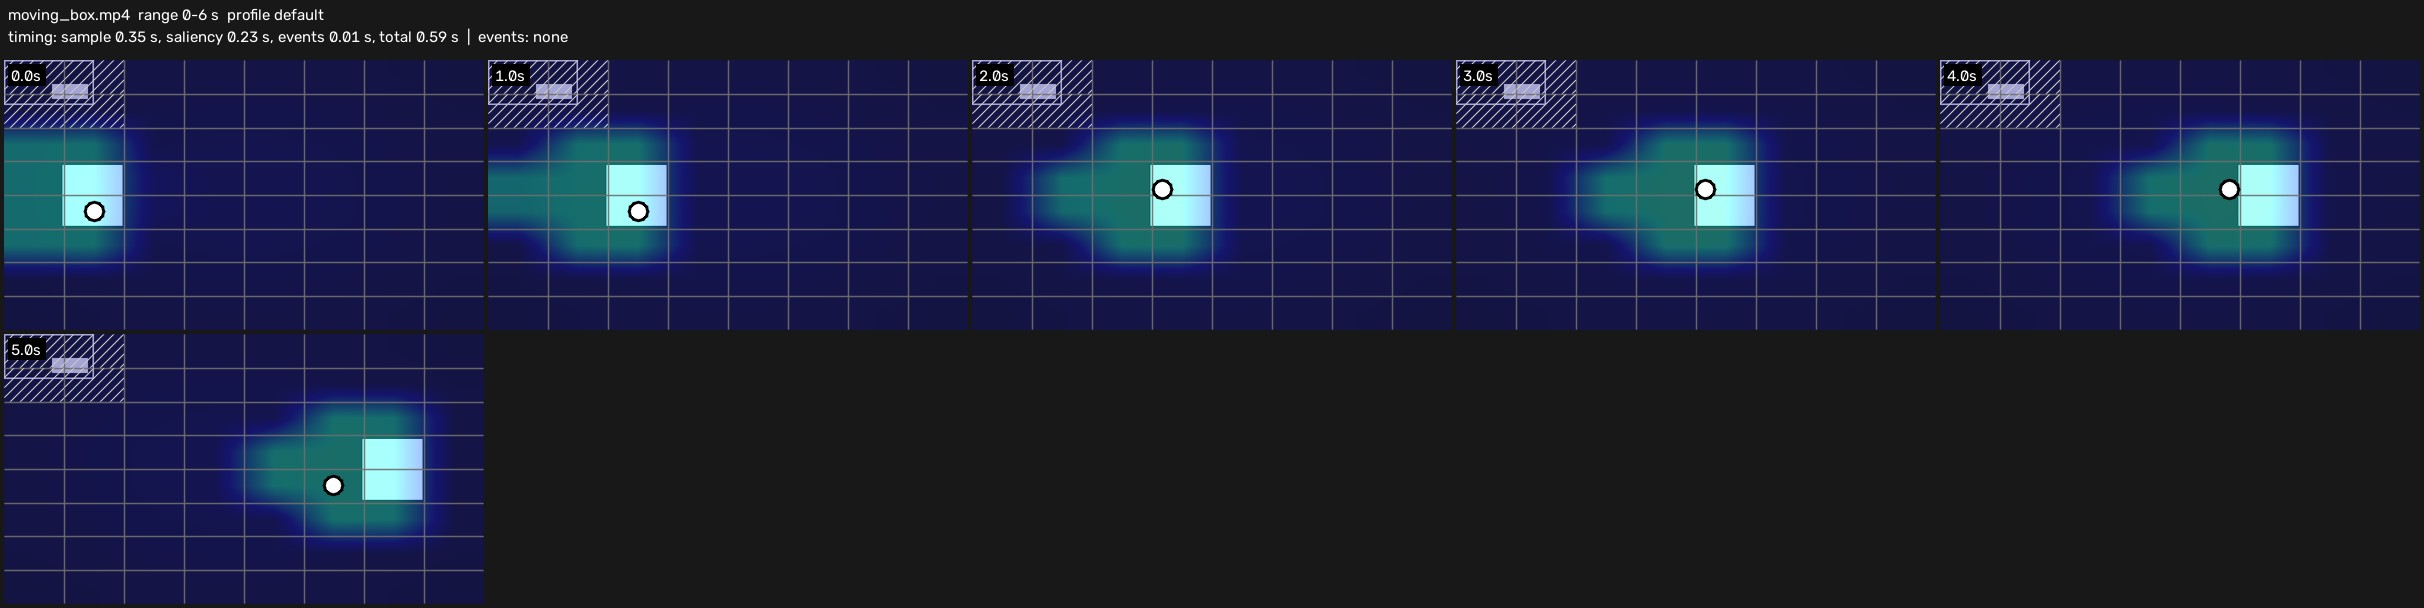
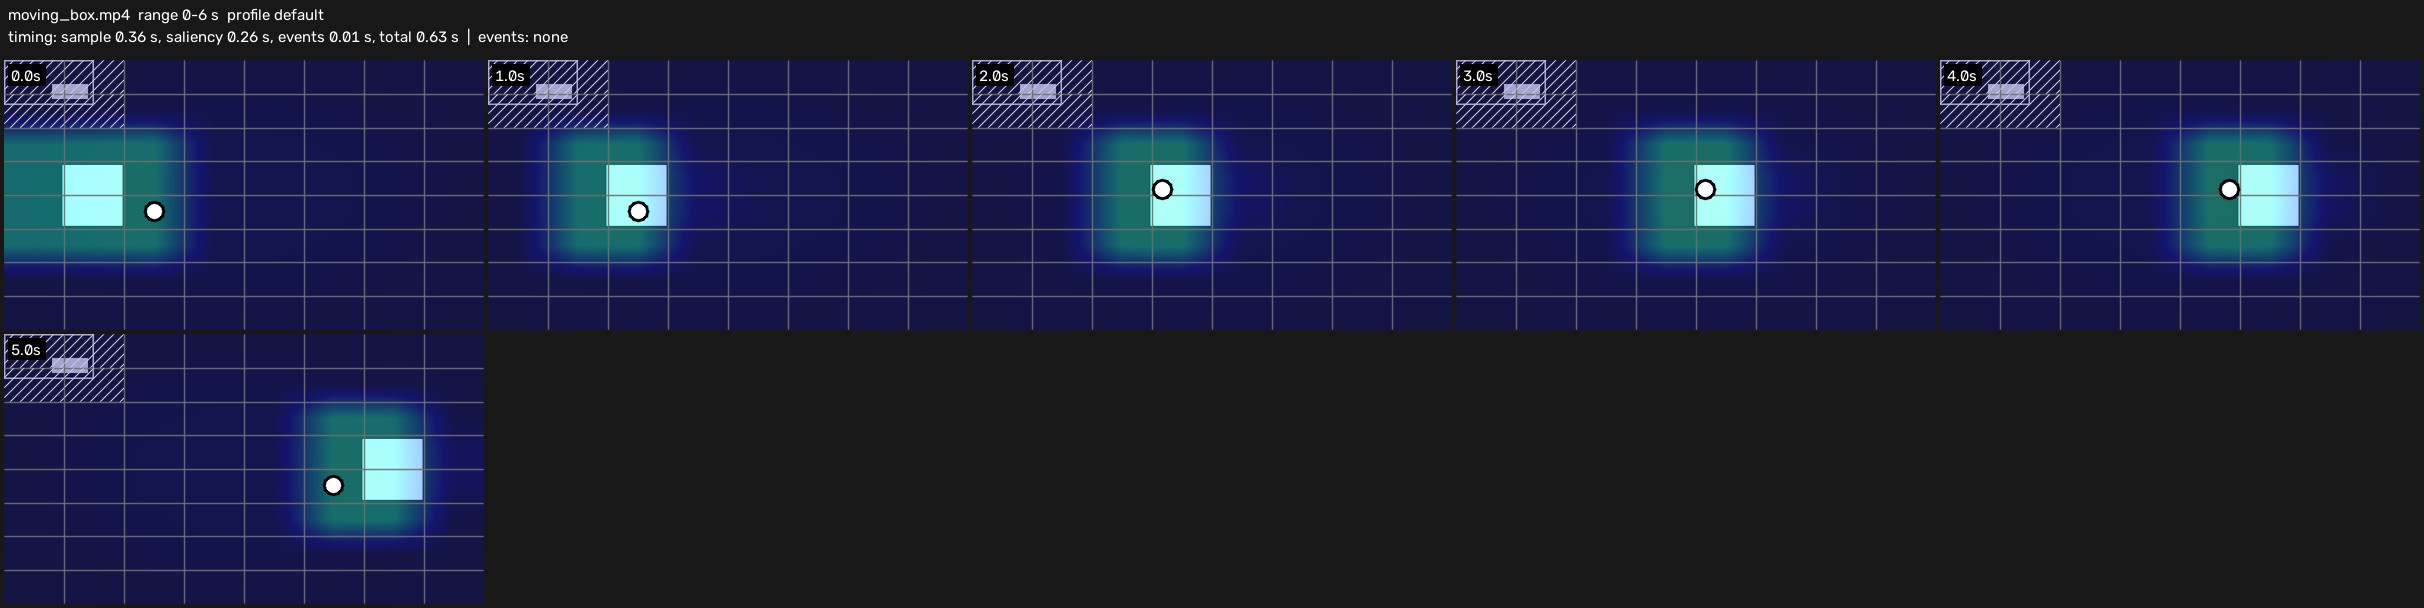
Motion channel: backward optical flow so saliency sits on the object's current position
Claude-Session: https://claude.ai/code/session_01FWScyKQfKyZbKeU2jZRygm

diff --git a/tests/test_motion_channels.py b/tests/test_motion_channels.py
@@ -163,6 +163,29 @@ class MotionChannelTests(unittest.TestCase):
         self.assertGreater(columns[-1], columns[0])
         self.assertTrue(all(b >= a for a, b in zip(columns, columns[1:])))
 
+    def test_motion_sits_on_current_position_not_previous(self) -> None:
+        """Backward flow lights where the square IS now, not where it WAS.
+
+        The square is 40 px and jumps 20 px per frame, so its current and previous centres lie
+        in different cells. Flow saturates across several cells, so the argmax cell is a tie
+        artefact; the column-profile centroid of the motion map is the stable measure.
+        """
+        size, top, jump, count = 40, 80, 20, 12
+        frames = dark_noise(count)
+        starts = [20 + jump * index for index in range(count)]
+        for index, x in enumerate(starts):
+            frames[index, top : top + size, x : x + size] = 220
+        channels = run_channels(make_context(frames), ["hud", "motion"])
+        column_centres = (np.arange(8) + 0.5) / 8
+        for index in range(2, count):
+            profile = channels["motion"][index].sum(axis=0)
+            centroid = float((profile * column_centres).sum() / profile.sum())
+            current = (starts[index] + size / 2) / WIDTH
+            previous = (starts[index - 1] + size / 2) / WIDTH
+            with self.subTest(frame=index):
+                self.assertLess(abs(centroid - current), 0.05, f"centroid {centroid:.3f} vs current {current:.3f}")
+                self.assertLess(abs(centroid - current), abs(centroid - previous))
+
     def test_hud_cells_are_masked_and_moving_area_is_not_hud(self) -> None:
         """Static checkerboard cells are HUD with zero motion; the moving area is not HUD."""
         frames = moving_square_frames(24)
